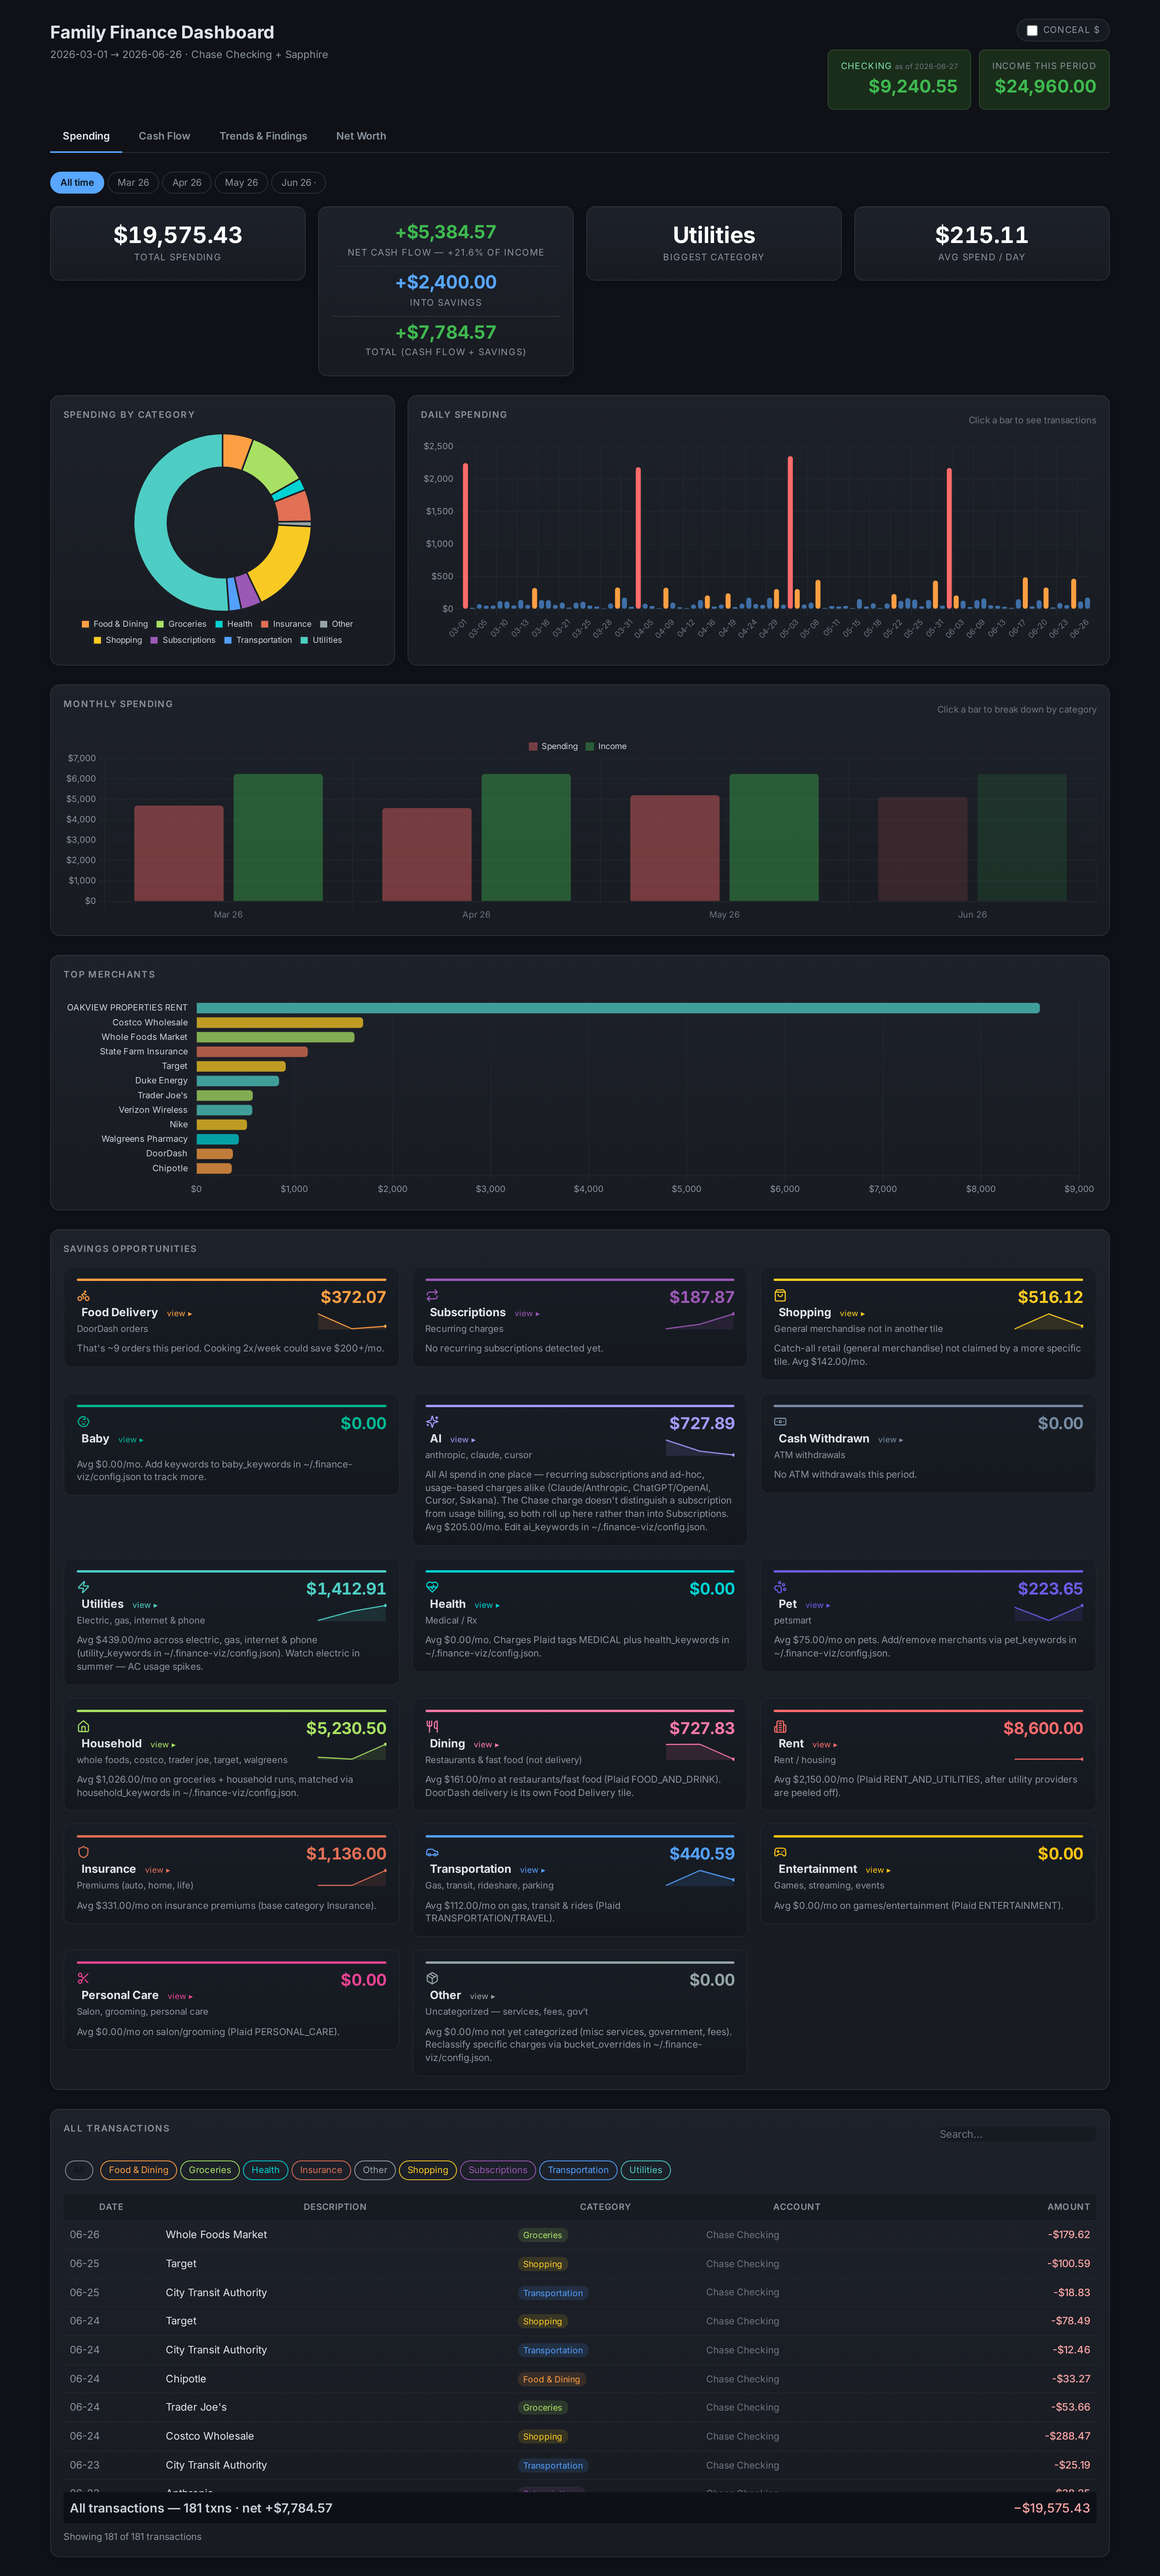
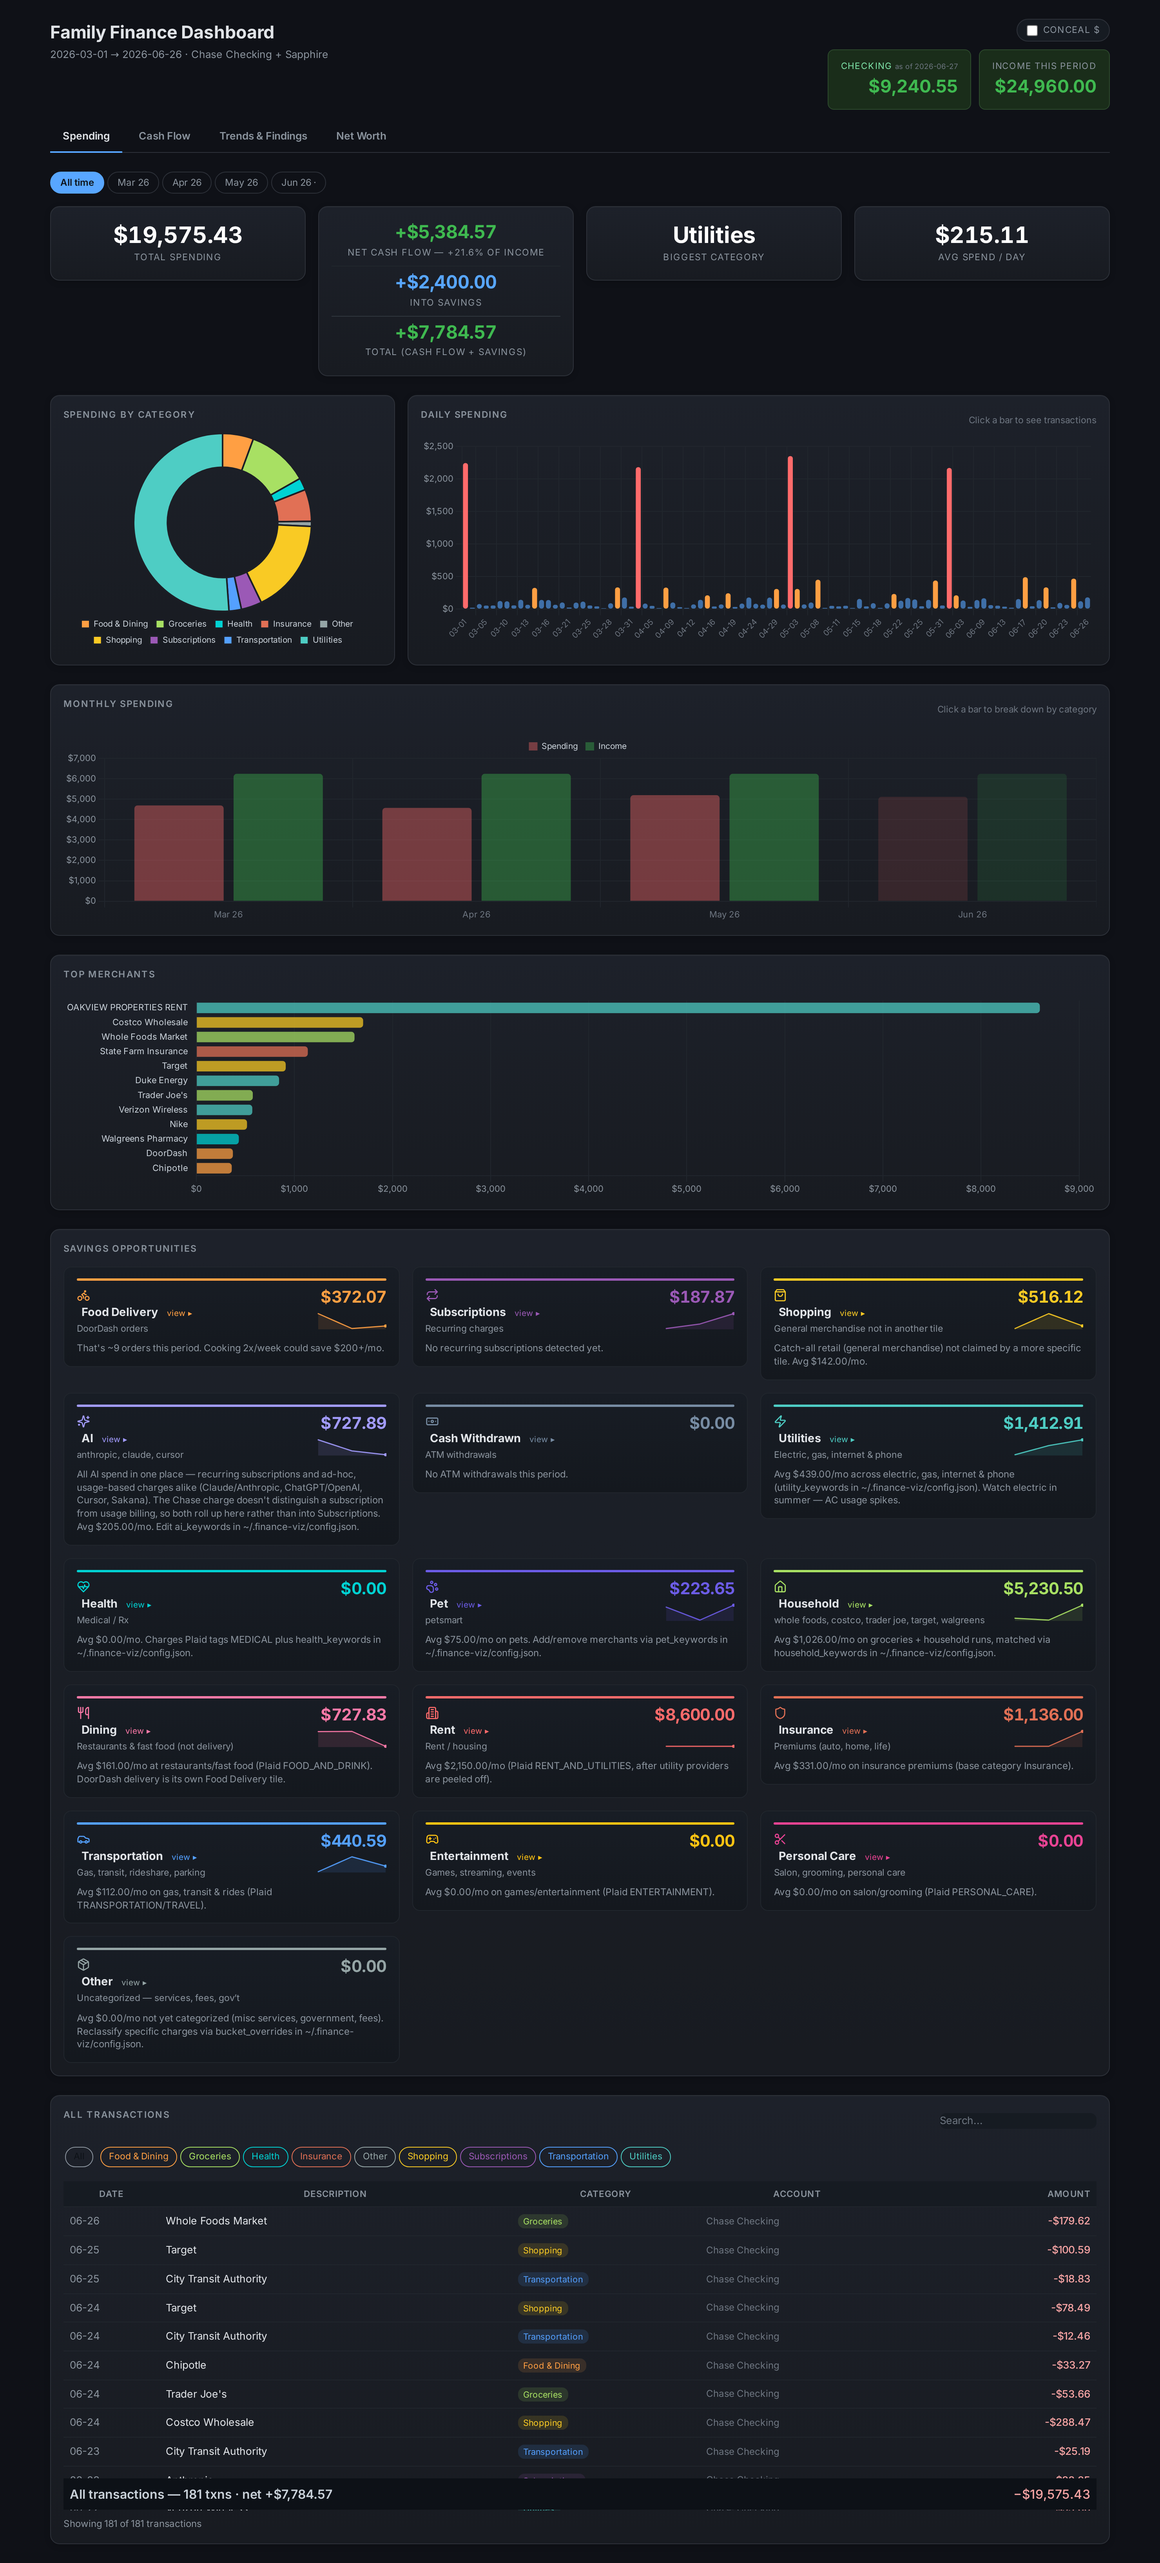
Baby tile is opt-in: hidden until baby_keywords configured or spend routed to it

diff --git a/static/app.js b/static/app.js
@@ -911,6 +911,10 @@ function renderInsights(ins) {
       tip: `Avg ${fmt(Math.round(monthlyAvg('other')))}/mo not yet categorized (misc services, government, fees). Reclassify specific charges via bucket_overrides in ~/.finance-viz/config.json.`
     },
   ];
+  // Baby is an opt-in tile: hidden until baby_keywords is configured (or an
+  // override routes spend into it), so installs that don't use it never see it.
+  const shownItems = items.filter(i =>
+    i.key !== 'baby' || (data.baby_keywords || []).length > 0 || (ins.baby_total || 0) > 0);
   INSIGHT_LABELS = Object.fromEntries(items.map(i => [i.key, i.label]));
 
   // Budget progress bar per tile (only for buckets with a config.json budget).
@@ -939,7 +943,7 @@ function renderInsights(ins) {
       </div>`;
   };
 
-  document.getElementById('insights-content').innerHTML = items.map(item => `
+  document.getElementById('insights-content').innerHTML = shownItems.map(item => `
     <div class="col-span-12 sm:col-span-6 md:col-span-4">
       <div class="insight-block" data-insight-key="${item.key}" onclick="toggleInsight('${item.key}')" style="cursor:pointer">
         <div class="insight-bar" style="background:${item.color}"></div>
